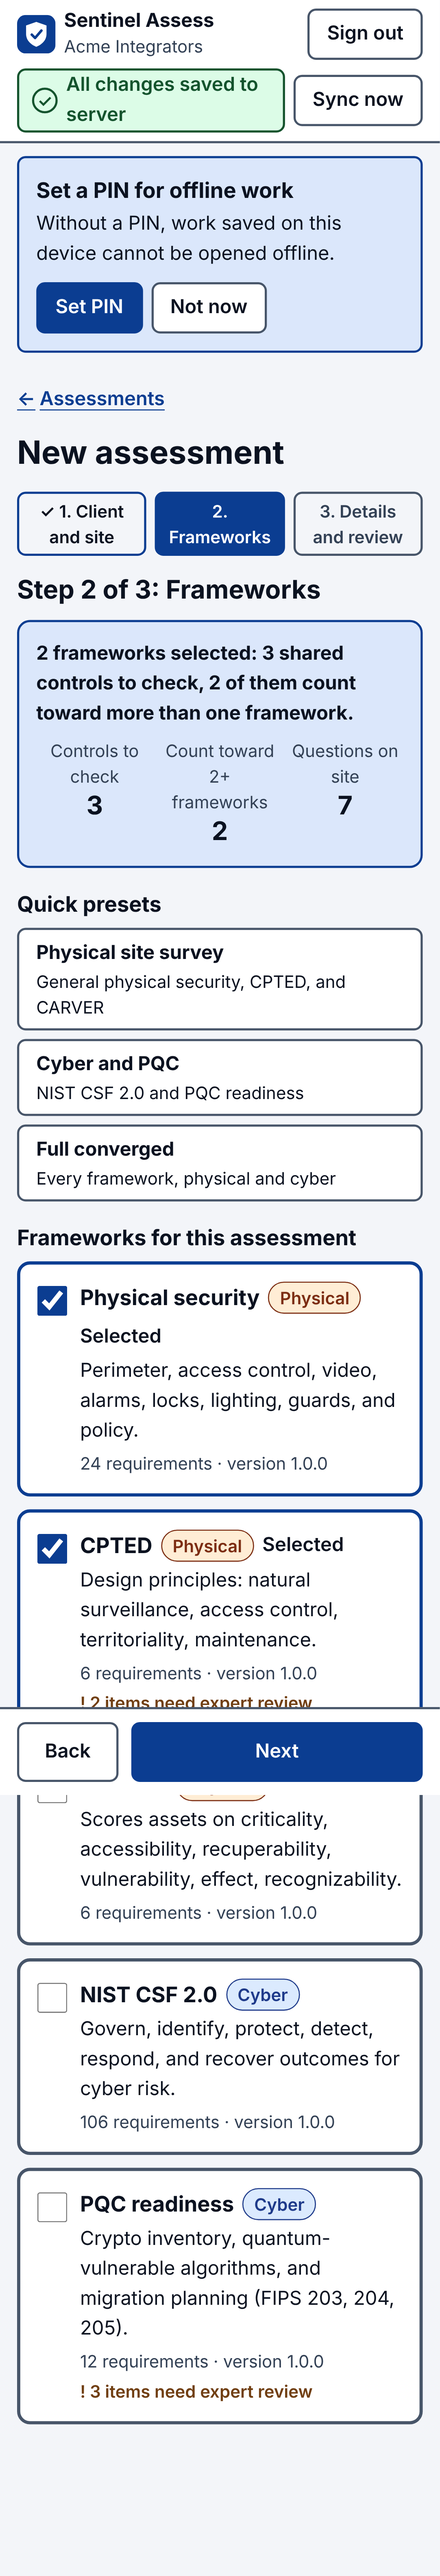
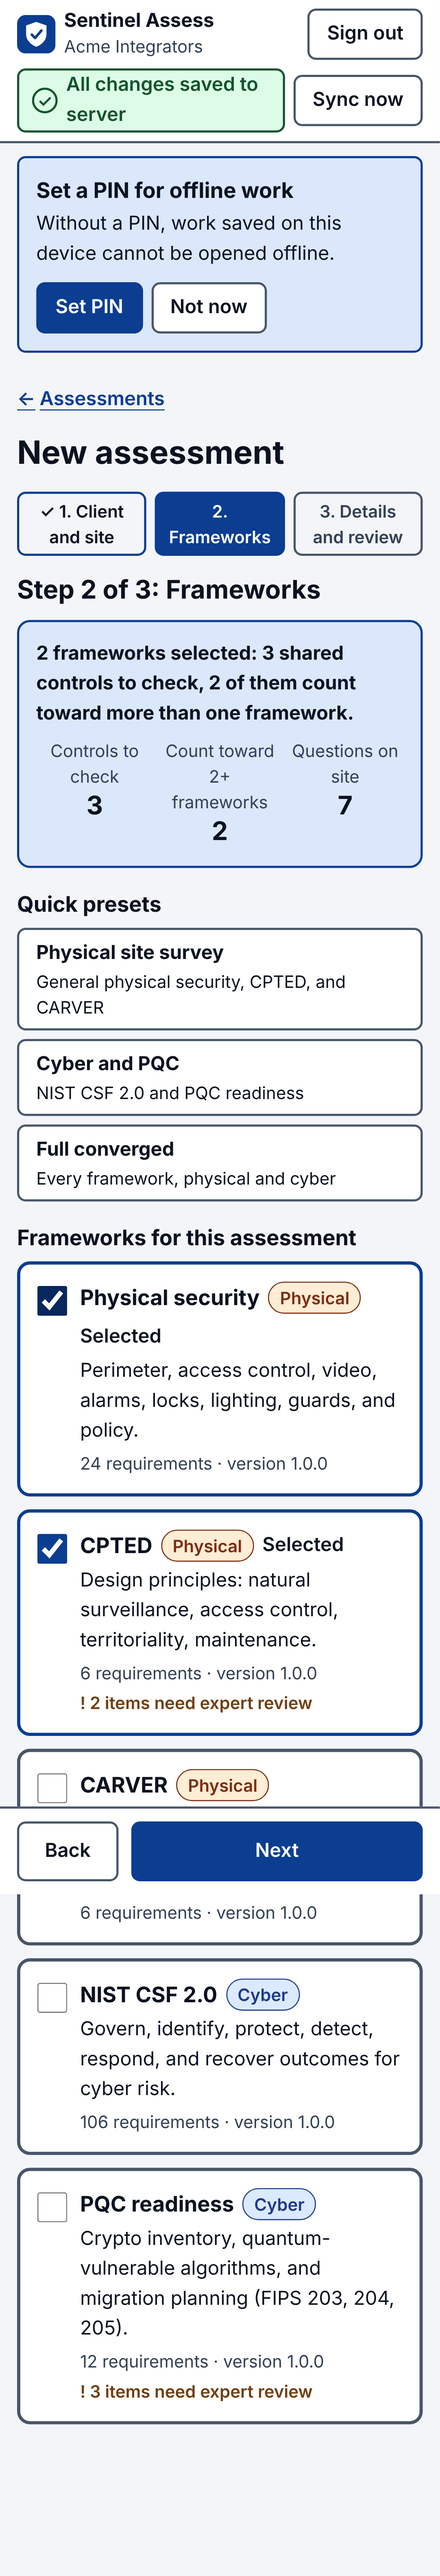
QA Phase 4 review: PASS; setup lockout, website URL scheme, stable seed test
Setup links now honor the sign-in lockout (a password oracle for
existing accounts; proven: the new test fails without the fix). Website
limited to http(s). Client-viewer route walk with real ids. Seed test
counts only seeded users so parallel suites cannot flake it. Account
pre-claim recorded as a general-availability gate. Phase 4 complete.

Claude-Session: https://claude.ai/code/session_01HNa1ozX4GZGKmeVcuqB8ie

Changed region(s): [[0.0305, 0.654, 0.976, 0.7474], [0.0915, 0.4983, 0.1525, 0.5294]]

diff --git a/apps/api/test/phase4.test.ts b/apps/api/test/phase4.test.ts
@@ -98,6 +98,8 @@ describe("branding", () => {
     expect(low.statusCode).toBe(422);
     expect(errCode(low)).toBe("contrast_too_low");
     expect((await call(owner, "PUT", "/branding", { ...base, primaryColor: "#777777" })).statusCode).toBe(422); // 4.48:1, just under
+    // QA P4-2: only http(s) websites are storable.
+    for (const website of ["javascript:alert(1)", "data:text/html,<script>alert(1)</script>"]) expect((await call(owner, "PUT", "/branding", { ...base, website })).statusCode).toBe(400);
     expect((await call(assessor, "PUT", "/branding", base)).statusCode).toBe(403);
     const gated = await call(blueOwner, "PUT", "/branding", { ...base, showPoweredBy: false });
     expect(gated.statusCode).toBe(403);
@@ -211,6 +213,18 @@ describe("members and setup links", () => {
     await login(app, "p4-existing@acme.test", "acme-integrators"); // original password still works
   });
 
+  it("QA P4-1: a setup link for an existing account honors the sign-in lockout", async () => {
+    await createUser("p4-lock@acme.test", [{ slug: "acme-integrators", role: "viewer" }]);
+    const inv = MemberInvite.parse(ok(await call(blueOwner, "POST", "/members", { email: "p4-lock@acme.test", name: "Lock", role: "viewer" }), 201));
+    const token = inv.setupUrl.split("#token=")[1];
+    for (let i = 0; i < 5; i++) expect((await app.inject({ method: "POST", url: "/auth/setup", payload: { token, password: `Wrong-guess-${i}-xyz` } })).statusCode).toBe(401);
+    // Locked now: even the right password is refused, through the link and through sign-in.
+    const r = await app.inject({ method: "POST", url: "/auth/setup", payload: { token, password: DEV_PASSWORD } });
+    expect(r.statusCode).toBe(429);
+    expect(errCode(r)).toBe("account_locked");
+    expect((await app.inject({ method: "POST", url: "/auth/login", payload: { email: "p4-lock@acme.test", password: DEV_PASSWORD } })).statusCode).toBe(429);
+  });
+
   it("last active owner cannot be demoted or disabled; admins cannot change owners", async () => {
     const members = ok(await call(blueOwner, "GET", "/members"));
     const self = members.find((m: Member) => m.email === "owner@bluefield.test").userId;
@@ -249,6 +263,22 @@ describe("client_viewer is refused outside the portal", () => {
       const url = r.url.replace(/:[A-Za-z]+/g, () => randomUUID());
       const res = await app.inject({ method: r.method as "GET", url, headers: auth(cv), ...(["POST", "PUT", "PATCH"].includes(r.method) ? { payload: {} } : {}) });
       if (![401, 403, 404].includes(res.statusCode)) failures.push(`${r.method} ${r.url} -> ${res.statusCode}`);
+    }
+    expect(failures).toEqual([]);
+  });
+
+  it("QA P4: the walk with the viewer's own real ids is refused by role (403), never masked by a 404", async () => {
+    // Random UUIDs let a 404 hide a missing role check; real ids of the client's own data cannot.
+    const routes = app.routeRegistry.filter((r) => r.method !== "OPTIONS" && !r.url.startsWith("/portal/") && !r.url.startsWith("/auth/") && !PUBLIC.has(r.url) && !(r.method === "GET" && r.url === "/branding") && !(r.method === "POST" && r.url === "/quotes/:id/actions"));
+    const failures: string[] = [];
+    for (const r of routes) {
+      for (const id of [aDone, northwind, siteN]) {
+        const url = r.url.replace(/:[A-Za-z]+/g, () => id);
+        for (const qs of ["", `?clientId=${northwind}&assessmentId=${aDone}&siteId=${siteN}`]) {
+          const res = await app.inject({ method: r.method as "GET", url: url + qs, headers: auth(cv), ...(["POST", "PUT", "PATCH"].includes(r.method) ? { payload: {} } : {}) });
+          if (![401, 403].includes(res.statusCode)) failures.push(`${r.method} ${url}${qs} -> ${res.statusCode}`);
+        }
+      }
     }
     expect(failures).toEqual([]);
   });

diff --git a/apps/api/src/routes/auth.ts b/apps/api/src/routes/auth.ts
@@ -261,6 +261,11 @@ export async function authRoutes(app: FastifyInstance, { cfg, db }: { cfg: Confi
    * (password, Google link, or another active workspace) proves its current password instead, so an
    * invite can never take over an account. The token is single use and expires after 72 hours.
    */
+  const isLocked = async (email: string) => {
+    const u = await findUser(db, email);
+    return !!(u?.locked_until && new Date(u.locked_until) > new Date());
+  };
+
   app.post("/auth/setup", { config: strict }, async (req, reply) => {
     const body = parse(CompleteSetup, req.body);
     const hash = sha256(body.token);
@@ -279,6 +284,11 @@ export async function authRoutes(app: FastifyInstance, { cfg, db }: { cfg: Confi
     } else if (!t.password_hash) {
       await logUnscoped(db, req, "auth.setup.failure", t.user_id, t.email, { reason: "existing_account_without_password" });
       throw new AppError(409, "existing_account", "This email already has an account that signs in another way; sign in with it, then ask your administrator to add you again");
+    } else if (await isLocked(t.email)) {
+      // QA P4-1: the setup link must honor the sign-in lockout, or its holder gets an unlimited password oracle.
+      await logUnscoped(db, req, "auth.setup.failure", t.user_id, t.email, { reason: "locked" });
+      await verifyPassword(null, body.password); // equalize timing
+      throw new AppError(429, "account_locked", "Too many failed sign-in attempts. Try again later.");
     } else if (!(await verifyPassword(t.password_hash, body.password))) {
       await db.query("SELECT auth_register_login_failure($1, $2, $3)", [t.user_id, cfg.LOGIN_MAX_FAILURES, cfg.LOGIN_LOCKOUT_SECONDS]);
       await logUnscoped(db, req, "auth.setup.failure", t.user_id, t.email, { reason: "bad_existing_password" });

diff --git a/apps/api/test/seed.test.ts b/apps/api/test/seed.test.ts
@@ -7,12 +7,16 @@ import { loadLibraryLenient, seed } from "../src/db/seed.js";
 import { OWNER_URL, withClient } from "./helpers.js";
 import { FIXTURES_DIR } from "./setup-db.js";
 
+const SEEDED_EMAILS = ["owner@acme.test", "assessor@acme.test", "viewer@acme.test", "owner@bluefield.test", "viewer@client.acme.test", "viewer@client.bluefield.test"];
+
 const counts = () =>
   withClient(OWNER_URL, async (c) => {
     const out: Record<string, number> = {};
-    for (const t of ["framework_version", "requirement", "shared_control", "question", "crosswalk", "app_user"]) {
+    for (const t of ["framework_version", "requirement", "shared_control", "question", "crosswalk"]) {
       out[t] = (await c.query(`SELECT count(*)::int AS n FROM ${t}`)).rows[0].n;
     }
+    // Only the seeded accounts: other test files create users in the same database concurrently (QA R4-6).
+    out.seeded_users = (await c.query("SELECT count(*)::int AS n FROM app_user WHERE email = ANY($1)", [SEEDED_EMAILS])).rows[0].n;
     return out;
   });
 

diff --git a/packages/shared/src/channel.ts b/packages/shared/src/channel.ts
@@ -25,7 +25,8 @@ export const Branding = z.object({
   reportFooter: z.string().max(500).default(""),
   contactEmail: z.email().max(254).nullable().default(null),
   contactPhone: z.string().max(40).nullable().default(null),
-  website: z.url().max(200).nullable().default(null),
+  /** http or https only (QA P4-2): a javascript: or data: URL must never be storable, even though renderers print it as text. */
+  website: z.url({ protocol: /^https?$/ }).max(200).nullable().default(null),
   /** "Powered by Sentinel Assess" on reports and portal. Only the partner plan may turn it off. */
   showPoweredBy: z.boolean().default(true),
 });

diff --git a/docs/security/threat-model.md b/docs/security/threat-model.md
@@ -159,3 +159,28 @@ Primary threat actors: an external attacker on the internet; a user of tenant A 
 | T | Race: write committed while another request completes the assessment | Status read without row lock | open (low) | recommendation R3-2 |
 | S | Offline cached work opened by someone else | PBKDF2-SHA256 310000 iterations verifier in IndexedDB; counter written before check; wipe on 5 failures | mitigated | `apps/web/src/auth/pin.ts`, D-064 |
 | I | Cached data read from disk or devtools | PIN is a gate, not encryption of IndexedDB | accepted | D-064; recommendation R3-3 |
+
+## Channel: members, setup links, client portal, branding, quotes (Phase 4)
+
+| STRIDE | Threat | Control | Status | Evidence |
+|---|---|---|---|---|
+| S | Setup link guessed or replayed | 256 bit random token, only SHA-256 stored, 72 h expiry, single use (all links of the membership burned on use), token in URL fragment | mitigated | `routes/members.ts`, `auth_complete_setup` in `006_channel.sql`, D-082, D-094 |
+| S | Invite of an existing email takes over the account | Not claimable when the account has a password, Google link, or an active membership elsewhere; then the current password is required | mitigated | `phase4.test.ts` "existing account" |
+| S | Setup link used as an unlimited password oracle for an existing account | Lockout checked before verify; failures count toward lockout | mitigated (fixed in review) | QA P4-1 test in `phase4.test.ts` |
+| S | Pre-claim: admin of tenant B invites an email still pending in tenant A and sets its global password first | Only active memberships block claiming | open (medium) | recommendation R4-1 |
+| I | Invite reveals that an email has an account and its stored name | Global identities by design; response echoes the existing name | accepted (low), see R4-2 | `member_invite_user` |
+| E | Admin creates or promotes owners or admins, or changes an admin | Owner-only for privileged roles, both target and current role | mitigated | `phase4.test.ts` |
+| D | Last owner demoted or disabled, also under concurrency | Owner rows locked FOR UPDATE, 409 `last_owner` | mitigated | `phase4.test.ts` |
+| S | Disabled member keeps a session | Per-request membership check; refresh tokens of that tenant revoked; open setup links burned | mitigated | `phase4.test.ts` "disabled members" |
+| E | client_viewer reaches staff routes | Ranks below viewer; route walk with random and real ids, with query variants, demands 401 or 403 | mitigated | `phase4.test.ts` route walks (QA P4 real-id walk added) |
+| I | client_viewer of client A sees client B in the same tenant | `clientScope` forces the membership client on list, detail, report, quotes, preview, and accept or decline | mitigated | `phase4.test.ts`, `isolation-phase4.test.ts` |
+| I | Cost or margin reaches a client | `clientQuoteView` for portal JSON and client actions; quote HTML prints prices only; portfolio and CSV are viewer and above | mitigated | D-096; `phase4.test.ts` key scan |
+| T | Stored XSS through branding text or website | Escaped text everywhere, never an href; website limited to http(s) | mitigated | `report/html.ts`, `quotes/render.ts`; QA P4-2 |
+| T | Malicious logo (SVG, polyglot, bomb) | Declared and sniffed type must be PNG or JPEG; 2 MB; 40 MP decode limit; re-encode to PNG, metadata dropped | mitigated | `lib/branding.ts`, `phase4.test.ts` |
+| E | Plan gate on "Powered by" bypassed | Checked at write and recomputed at read (`poweredBy`) | mitigated | `lib/branding.ts` |
+| T | Client sends forged totals or prices | Server recomputes totals with shared `quoteTotals`; bounds on every number; margin below minimum goes to owner approval | mitigated | `routes/quotes.ts` |
+| T | Lines reference another tenant's price book or another assessment's findings | RLS-scoped lookups, 400 on unknown ids | mitigated | `isolation-phase4.test.ts` |
+| T | Edits after submit; out-of-order transitions | Draft-only PUT under row lock; explicit transition table | mitigated | `phase4.test.ts` |
+| T | CSV formula injection | Leading `= + - @ tab CR` prefixed with a quote | mitigated | `phase4.test.ts` |
+| T | Duplicate quote numbers under concurrency | Per-tenant advisory transaction lock | mitigated | `quotes/service.ts` |
+| R | An owner submits and approves their own below-margin quote | Allowed (owners hold final authority); audited with actor | accepted | R4-4 |

diff --git a/docs/security/asvs-checklist.md b/docs/security/asvs-checklist.md
@@ -1,6 +1,6 @@
 # OWASP ASVS 4.0.3 checklist (Level 2 target)
 
-Owner: qa-security-reviewer. Last reviewed: 2026-11-05 (Phase 3). Status: **met**, **partial**, **not yet**, **N/A**. Evidence paths are relative to the repository root. Requirements are summarized, not quoted; see the ASVS 4.0.3 text for exact wording. Items marked "not yet" are not Phase 1 blockers unless `docs/security/phase1-review.md` says so.
+Owner: qa-security-reviewer. Last reviewed: 2026-11-06 (Phase 4). Status: **met**, **partial**, **not yet**, **N/A**. Evidence paths are relative to the repository root. Requirements are summarized, not quoted; see the ASVS 4.0.3 text for exact wording. Items marked "not yet" are not Phase 1 blockers unless `docs/security/phase1-review.md` says so.
 
 ## V2 Authentication
 
@@ -166,3 +166,22 @@ Owner: qa-security-reviewer. Last reviewed: 2026-11-05 (Phase 3). Status: **met*
 | 14.5.1 | Only allowed HTTP methods | met | |
 | 14.5.3 | CORS origin allow list | met | Exact `WEB_ORIGIN` match, `apps/api/test/routes.test.ts`, live preflight from a foreign origin gets no `Access-Control-Allow-Origin` |
 | (config) | API refuses a role that can bypass RLS; placeholder secrets refused | met | `assertAppRoleSafe`, `apps/api/src/config.ts` |
+
+## Phase 4 additions (channel)
+
+| ID | Requirement (summary) | Status | Evidence or gap |
+|---|---|---|---|
+| 2.1.1 | Passwords at least 12 characters | met | Setup sets the first password through `CompleteSetup` (shared schema) |
+| 2.2.1 | Anti-automation and lockout | met | Lockout now also enforced on `/auth/setup` for existing accounts (QA P4-1); strict rate limit on the route |
+| 2.3.1 | Initial secrets random, short lived, single use | met | 32 byte setup token, SHA-256 at rest, 72 h, single use; fragment delivery (D-082, D-094) |
+| 2.5.x / 3.x | Account pre-hijacking through pending invites | partial | R4-1: an invite elsewhere does not block claiming |
+| 3.3.1 | Logout and invalidation on disable | met | Refresh tokens revoked, membership checked per request |
+| 4.1.3 | Least privilege | met | client_viewer below viewer; owner-only privileged role changes; last-owner rule |
+| 4.2.1 | Protection against IDOR | met | Real-id and random-id route walks; client scope on every portal route |
+| 4.3.x | Sensitive business data restricted | met | Prices-only client view (D-096) |
+| 5.1.3 | Input validation, URL scheme allow list | met | Branding website http(s) only (QA P4-2) |
+| 5.2.x | Output encoding in report, quote HTML, PWA | met | `escapeHtml`, React text nodes, CSP `default-src 'none'` |
+| 5.3.x | CSV injection | met | `csvCell` |
+| 11.1.x | Business logic sequence and limits | met | Quote state machine, draft-only edits, server totals, advisory-locked numbering |
+| 12.1.1 / 12.2.1 | Upload size and content checks (logo) | met | 2 MB, magic bytes, decode limit, re-encode; SVG refused |
+| 1.x (identity) | Account enumeration via invites | partial | Accepted by design for global identities; R4-2 |

diff --git a/docs/security/phase4-review.md b/docs/security/phase4-review.md
@@ -1,0 +1,35 @@
+# Phase 4 security review (channel)
+
+Reviewer: qa-security-reviewer. Date: 2026-11-06. Verdict: **PASS**, after two fixes made in this review; recommendations below.
+
+## Scope
+
+Migration `006_channel.sql`; routes `branding`, `members`, `pricebook`, `quotes`, `portal`, `auth` (setup); `apps/api/src/quotes/`; `apps/api/src/lib/branding.ts`; `packages/shared/src/channel.ts`; web Portal, Quotes, Members, Branding screens.
+
+## Results
+
+| Command | Result |
+|---|---|
+| `npm run typecheck` | pass |
+| `npm test` | pass (API 201 tests, all workspaces green); one earlier run had 2 failures plus 1 suite error that did not reproduce (shared test DB contention, R4-6) |
+| `npm run build -w @sentinel/web` | pass |
+| `npx playwright test` (apps/web) | 118 passed, 2 skipped |
+
+## Fixed in review
+
+- QA P4-1 (high): `/auth/setup` for an existing account verified the password without checking the lockout, so any workspace admin who invited a known email held an unlimited (rate limited only per IP) password oracle for that account. Fix: lockout checked first (`routes/auth.ts`); test "setup link honors the sign-in lockout".
+- QA P4-2 (low, defense in depth): branding website accepted `javascript:` and `data:` URLs. Today it is printed as text only, but it is now limited to http(s) (`packages/shared/src/channel.ts`); assertion in the branding test.
+- Test gap: the client_viewer route walk used random ids, so a 404 could hide a missing role check. Added a walk with the viewer's own real assessment, client, and site ids plus query variants that requires 401 or 403.
+
+## Verified (Head of Engineering fixes)
+
+Client logins get the prices-only view from `GET /portal/quotes/:id` and from accept or decline; quote preview HTML prints prices only; suggestions pick one item per tier and drop wrong asset types.
+
+## Recommendations (non-blocking)
+
+- R4-1 (medium): pre-claiming. `claimable` ignores invited memberships elsewhere, so an admin of tenant B can invite an email that is pending in tenant A and set its global password first; the victim then cannot finish A's setup. Make an account claimable only when it has no other membership at all, or require email verification. Fix before general availability.
+- R4-2 (low): `POST /members` echoes the existing account's stored name to another tenant's admin. Return the name the inviter typed until the person joins. Enumeration of existing accounts through invites is accepted by design.
+- R4-3: Rate limit `POST /members` per user; invites create global identities.
+- R4-4: Consider a separation-of-duties setting so a below-margin quote needs an owner other than its submitter.
+- R4-5: The portal report includes photo notes as written by assessors; remind integrators in `docs/channel-guide.md` that the report is client facing.
+- R4-6: The seed idempotency test counts `app_user` while other files create users; run it in isolation or count only seeded rows.

diff --git a/docs/decisions.md b/docs/decisions.md
@@ -101,3 +101,5 @@ Routine engineering decisions, newest last. Product decisions go to CW and are r
 | D-094 | 2026-11-06 | Setup page reads the token from the link fragment (#token=), keeps it in memory, and removes it from the address bar at once; people with an existing account choose "use my current password", and a 401 invalid_credentials switches to that mode automatically. | Fragment never reaches servers or referrers; existing accounts cannot be taken over by an invite. | Frontend |
 | D-095 | 2026-11-06 | Tour fixes: risk scenario cards and portal findings are collapsed disclosures by default; comparison stacks per scenario below 640 px; "Not now" on the PIN prompt is stored in sessionStorage (try/catch) and cleared on sign out; framework chips read "Short name: Requirement title (code)" with titles from the pinned framework versions. | Short pages on phones; no raw framework ids. | Frontend |
 | D-096 | 2026-11-06 | Client logins receive a prices-only quote view (no cost, labor hours, margin, minimum margin, or approver) from both the portal and the accept or decline action; enforced in the API, not just hidden in the PWA. | Integrator cost and margin are commercially sensitive; found during Phase 4 integration. | Head of Eng |
+| D-097 | 2026-11-06 | Setup links honor the sign-in lockout for existing accounts, and branding websites accept http(s) only. Account enumeration through invites is accepted for global identities; the existing account's name should not be echoed (R4-2). | Closes a password oracle (QA P4-1) and a stored URL risk (QA P4-2). | QA |
+| D-098 | 2026-11-06 | Account pre-claim (QA R4-1) is a general-availability blocker: an admin in one workspace can set the password of a not-yet-registered email that another workspace has invited. The proper fix is email verification on setup, which needs a mail provider (CW decision). Acceptable for a pilot with known integrators. | Logged as a launch gate, not hidden. | Head of Eng |

diff --git a/PLAN.md b/PLAN.md
@@ -1,6 +1,6 @@
 # Sentinel Assess: Delivery Plan
 
-Owner: CW (product owner). Engineering lead: Head of Engineering (Claude). Status: Phase 1 complete (QA PASS, CW go-ahead 2026-11-04); Phase 2 complete (QA PASS 2026-11-05); Phase 3 complete (QA PASS 2026-11-05); Phase 4 in progress (CW go-ahead 2026-11-06).
+Owner: CW (product owner). Engineering lead: Head of Engineering (Claude). Status: Phase 1 complete (QA PASS, CW go-ahead 2026-11-04); Phase 2 complete (QA PASS 2026-11-05); Phase 3 complete (QA PASS 2026-11-05); Phase 4 complete (QA PASS 2026-11-06). All four phases delivered; see docs/security/phase4-review.md for launch gates.
 
 Sentinel Assess is an AI-native physical and cyber security assessment platform sold through systems integrators. It combines guided field walkthroughs with photos (EasySet style) and quantified inherent, control, and residual risk (Circadian Risk style), and adds AI photo analysis, physical and cyber in one assessment, and integrator-first quoting.
 
@@ -119,7 +119,7 @@ Scope: risk engine, dashboards, Google Docs, Sheets, and Drive export with photo
 - frontend: dashboards, explanation views, site comparison
 - vision-ai: narrative drafting for reports (human review before export)
 
-### Phase 4: Channel (in progress)
+### Phase 4: Channel (complete)
 Contract: [docs/api-phase4.md](docs/api-phase4.md).
 Scope: integrator workspaces and branding, clients within, findings-to-quote, portfolio comparison.
 - channel-pm: price book and quote design, branding rules
